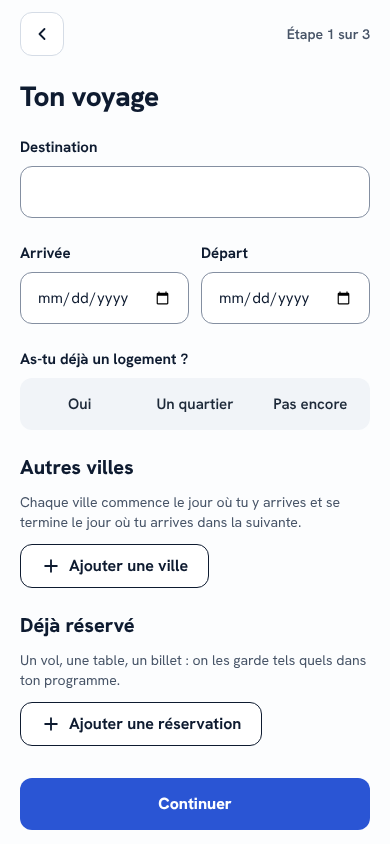
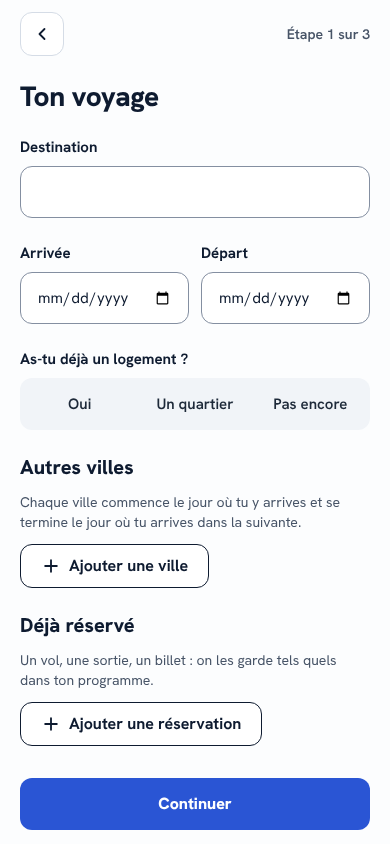
[ux] Formulaire guidé : corrections de revue (ticket 813)
Captures écran 2 vérification et écran 3, page entière de l'écran 1 ;
idées exclusives « qui part », indisponibles au plafond avec message,
retrait sans retoucher le récit ; titre des idées au style des sections ;
« Sortie » à la place de « Table ou activité » ; parcours e2e de l'étape
et des idées ; renvoi 0018 vers 0134, libellés de la spécification F8.
Captures de référence sans rapport restaurées depuis main.

Claude-Session: https://claude.ai/code/session_017VkTFzuPjWFSYa4eNqysM3

Changed region(s): [[0.0615, 0.7701, 0.9231, 0.8318]]

diff --git a/src/features/creation/BriefStory.tsx b/src/features/creation/BriefStory.tsx
@@ -28,21 +28,50 @@ const COUNTER_ID = `${STORY_ID}-compteur`;
 const ANNOUNCED_LENGTHS = new Set([STORY_LENGTH.max * 0.9, STORY_LENGTH.max]);
 
 const IDEAS_ID = "recit-idees";
+const IDEAS_FULL_ID = `${IDEAS_ID}-plein`;
+const IDEAS: readonly Idea[] = r.idees.liste;
+
+/** Une idée du récit (`creation.ecran2.recit.idees.liste`) ; `groupe` : idées exclusives (« qui part »). */
+export interface Idea {
+  label: string;
+  phrase: string;
+  groupe?: string;
+}
 
 /** Le récit contient-il déjà la phrase de cette idée ? */
 export function hasIdea(story: string, phrase: string): boolean {
   return story.includes(phrase);
 }
 
+/** Retire la première occurrence de la phrase et l'espace qui la sépare du reste ; le reste du récit est intact. */
+export function removePhrase(story: string, phrase: string): string {
+  const at = story.indexOf(phrase);
+  if (at < 0) return story;
+  let start = at;
+  let end = at + phrase.length;
+  if (story[start - 1] === " ") start -= 1;
+  else if (story[end] === " ") end += 1;
+  return story.slice(0, start) + story.slice(end);
+}
+
+/** Ajoute la phrase à la fin du récit, après une espace si le récit ne finit pas déjà par un blanc. */
+function appendPhrase(story: string, phrase: string): string {
+  if (story.trim() === "") return phrase;
+  return /\s$/.test(story) ? `${story}${phrase}` : `${story} ${phrase}`;
+}
+
 /**
- * Ajoute la phrase d'une idée à la fin du récit (une espace avant si besoin), ou la retire si elle y est déjà. Rien
- * n'est ajouté si le récit dépasserait le plafond de caractères.
+ * Touche d'une idée (décision 0134 § 3) : retire sa phrase si elle est dans le récit ; sinon l'ajoute à la fin, après
+ * avoir retiré celles des autres idées du même groupe (on part à deux, en famille ou entre amis, pas les trois). Rien
+ * ne change si le récit dépasserait le plafond de caractères.
  */
-export function toggleIdea(story: string, phrase: string): string {
-  if (hasIdea(story, phrase)) {
-    return story.replace(phrase, "").replace(/ {2,}/g, " ").trim();
-  }
-  const joined = story.trim() === "" ? phrase : `${story.trimEnd()} ${phrase}`;
+export function toggleIdea(story: string, idea: Idea, ideas: readonly Idea[] = []): string {
+  if (hasIdea(story, idea.phrase)) return removePhrase(story, idea.phrase);
+  const others = idea.groupe ? ideas.filter((other) => other !== idea && other.groupe === idea.groupe) : [];
+  const joined = appendPhrase(
+    others.reduce((current, other) => removePhrase(current, other.phrase), story),
+    idea.phrase,
+  );
   return joined.length > STORY_LENGTH.max ? story : joined;
 }
 
@@ -87,6 +116,7 @@ export function BriefStory({ focusTitle, onStageChange, essai = false }: BriefSt
   );
 
   const length = state.story.length;
+  const ideasFull = IDEAS.some((idea) => !hasIdea(state.story, idea.phrase) && toggleIdea(state.story, idea, IDEAS) === state.story);
 
   async function prepare() {
     if (pending) return;
@@ -166,24 +196,35 @@ export function BriefStory({ focusTitle, onStageChange, essai = false }: BriefSt
           {ANNOUNCED_LENGTHS.has(length) ? counterText(length) : null}
         </p>
       </div>
-      {/* Idées (décision 0134) : chaque chip ajoute sa phrase au récit, ou la retire ; état « choisi » = phrase présente. */}
+      {/* Idées (décision 0134 § 3) : chaque chip ajoute sa phrase au récit, ou la retire ; état « choisi » = phrase présente.
+          Une idée qui ne tiendrait plus dans le récit est indisponible et décrite par le message « plein ». */}
       <div role="group" aria-labelledby={IDEAS_ID} aria-describedby={helpId(IDEAS_ID)} className="flex flex-col gap-2">
-        <h2 id={IDEAS_ID} className="text-corps font-semibold text-ink">
+        <h2 id={IDEAS_ID} className="text-section font-extrabold text-ink">
           {r.idees.titre}
         </h2>
         <p id={helpId(IDEAS_ID)} className="text-corps-s text-ink-soft">
           {r.idees.aide}
         </p>
         <div className="flex flex-wrap gap-2">
-          {r.idees.liste.map((idea) => (
-            <Chip
-              key={idea.label}
-              label={idea.label}
-              selected={hasIdea(state.story, idea.phrase)}
-              onSelectedChange={() => dispatch({ type: "story", story: toggleIdea(state.story, idea.phrase) })}
-            />
-          ))}
+          {IDEAS.map((idea) => {
+            const selected = hasIdea(state.story, idea.phrase);
+            const next = toggleIdea(state.story, idea, IDEAS);
+            const unavailable = !selected && next === state.story;
+            return (
+              <Chip
+                key={idea.label}
+                label={idea.label}
+                selected={selected}
+                aria-disabled={unavailable || undefined}
+                aria-describedby={unavailable ? IDEAS_FULL_ID : undefined}
+                onSelectedChange={() => dispatch({ type: "story", story: next })}
+              />
+            );
+          })}
         </div>
+        <p id={IDEAS_FULL_ID} className={ideasFull ? "text-corps-s text-ink-soft" : "hidden"}>
+          {r.idees.plein}
+        </p>
       </div>
       <div role="alert" className={failed ? undefined : EMPTY_LIVE_REGION_CLASS}>
         {failed ? (

diff --git a/src/features/creation/BriefStory.test.ts b/src/features/creation/BriefStory.test.ts
@@ -2,23 +2,46 @@ import { describe, expect, it } from "vitest";
 
 import { STORY_LENGTH } from "@/contracts/values";
 
-import { hasIdea, toggleIdea } from "./BriefStory";
+import { hasIdea, removePhrase, toggleIdea, type Idea } from "./BriefStory";
 
-/** Idées du récit (décision 0134) : ajout en fin de récit, retrait, plafond de caractères. */
+/** Idées du récit (décision 0134 § 3) : ajout en fin de récit, retrait sans toucher au reste, groupe exclusif, plafond. */
+const DEUX: Idea = { label: "À deux", phrase: "On part à deux.", groupe: "qui" };
+const FAMILLE: Idea = { label: "En famille", phrase: "On part en famille, avec des enfants.", groupe: "qui" };
+const TABLES: Idea = { label: "Bonnes tables", phrase: "On aime bien manger, surtout la cuisine locale." };
+const IDEES = [DEUX, FAMILLE, TABLES];
+
 describe("toggleIdea", () => {
-  it("ajoute la phrase seule dans un récit vide, après une espace sinon", () => {
-    expect(toggleIdea("", "On part à deux.")).toBe("On part à deux.");
-    expect(toggleIdea("  ", "On part à deux.")).toBe("On part à deux.");
-    expect(toggleIdea("On aime marcher.\n", "On part à deux.")).toBe("On aime marcher. On part à deux.");
+  it("ajoute la phrase seule dans un récit vide, après une espace sinon, sans espace en trop après un blanc final", () => {
+    expect(toggleIdea("", DEUX)).toBe("On part à deux.");
+    expect(toggleIdea("  ", DEUX)).toBe("On part à deux.");
+    expect(toggleIdea("On aime marcher.", DEUX)).toBe("On aime marcher. On part à deux.");
+    expect(toggleIdea("On aime marcher.\n", DEUX)).toBe("On aime marcher.\nOn part à deux.");
   });
 
-  it("retire la phrase déjà présente, sans laisser d'espace double", () => {
-    expect(toggleIdea("On aime marcher. On part à deux. Pas de musées.", "On part à deux.")).toBe("On aime marcher. Pas de musées.");
-    expect(hasIdea("On aime marcher.", "On part à deux.")).toBe(false);
+  it("retire la phrase et l'espace qui la sépare, sans toucher au reste du récit", () => {
+    expect(toggleIdea("On aime marcher. On part à deux. Pas de musées.", DEUX)).toBe("On aime marcher. Pas de musées.");
+    expect(toggleIdea("On part à deux. Pas de musées.", DEUX)).toBe("Pas de musées.");
+    // Récit sur plusieurs lignes, doubles espaces saisis : gardés tels quels.
+    const recit = "Premier jour  calme.\nOn part à deux.\nPuis la mer.";
+    expect(toggleIdea(recit, DEUX)).toBe("Premier jour  calme.\n\nPuis la mer.");
+  });
+
+  it("phrase présente deux fois : une touche en retire une, l'idée reste choisie", () => {
+    const recit = "On part à deux. Oui, on part à deux.";
+    const apres = toggleIdea(recit, DEUX);
+    expect(apres).toBe("Oui, on part à deux.");
+    expect(removePhrase("On part à deux. On part à deux.", DEUX.phrase)).toBe("On part à deux.");
+    expect(hasIdea(removePhrase("On part à deux. On part à deux.", DEUX.phrase), DEUX.phrase)).toBe(true);
+  });
+
+  it("idées d'un même groupe exclusives : « En famille » remplace « À deux », les autres idées restent", () => {
+    const recit = "On part à deux. On aime bien manger, surtout la cuisine locale.";
+    expect(toggleIdea(recit, FAMILLE, IDEES)).toBe("On aime bien manger, surtout la cuisine locale. On part en famille, avec des enfants.");
+    expect(toggleIdea(recit, TABLES, IDEES)).toBe("On part à deux.");
   });
 
   it("n'ajoute rien si le récit dépasserait le plafond", () => {
     const plein = "a".repeat(STORY_LENGTH.max - 5);
-    expect(toggleIdea(plein, "On part à deux.")).toBe(plein);
+    expect(toggleIdea(plein, DEUX)).toBe(plein);
   });
 });

diff --git a/tests/e2e/creation.e2e.spec.ts b/tests/e2e/creation.e2e.spec.ts
@@ -199,6 +199,31 @@ test("brief: récit, erreur et compteur", async ({ page }) => {
   await expect(live).toHaveText(`${MILLE} sur ${MILLE} caractères`);
 });
 
+test("creation: étape visible et idées du récit (décision 0134)", async ({ page }) => {
+  await page.goto(R1);
+  const etape = page.locator('[data-part="etape"]');
+  await expect(etape).toHaveText("Étape 1 sur 3");
+  await fillTrip(page, { ...EDIMBOURG, lodging: "Oui" });
+  await expect(etape).toHaveText("Étape 1 sur 2");
+  await lodgingGroup(page).getByRole("radio", { name: "Pas encore" }).click();
+  await expect(etape).toHaveText("Étape 1 sur 3");
+  await continueButton(page).click();
+  await expectPath(page, R2);
+  await expect(etape).toHaveText("Étape 2 sur 3");
+
+  const story = storyField(page);
+  const idees = page.getByRole("group", { name: "Idées à ajouter" });
+  const deux = idees.getByRole("button", { name: "À deux" });
+  await deux.click();
+  await expect(story).toHaveValue("On part à deux.");
+  await expect(deux).toHaveAttribute("aria-pressed", "true");
+  await idees.getByRole("button", { name: "Bonnes tables" }).click();
+  await expect(story).toHaveValue("On part à deux. On aime bien manger, surtout la cuisine locale.");
+  await deux.click();
+  await expect(story).toHaveValue("On aime bien manger, surtout la cuisine locale.");
+  await expect(deux).toHaveAttribute("aria-pressed", "false");
+});
+
 test("brief: déductions visibles", async ({ page }) => {
   await reachBrief(page);
   await reachReview(page);

diff --git a/src/features/creation/BriefScreen.test.tsx b/src/features/creation/BriefScreen.test.tsx
@@ -135,6 +135,23 @@ describe("BriefScreen : récit", () => {
     expect(await axeViolations(container)).toEqual([]);
   });
 
+  it("idées « qui part » exclusives ; près du plafond, les idées qui ne tiennent plus sont indisponibles et décrites", () => {
+    renderScreen();
+    const idees = screen.getByRole("group", { name: "Idées à ajouter" });
+    fireEvent.click(within(idees).getByRole("button", { name: "À deux" }));
+    fireEvent.click(within(idees).getByRole("button", { name: "Entre amis" }));
+    expect(story()).toHaveValue("On part entre amis.");
+    expect(within(idees).getByRole("button", { name: "À deux" })).toHaveAttribute("aria-pressed", "false");
+    const plein = "a".repeat(990);
+    fireEvent.change(story(), { target: { value: plein } });
+    const deux = within(idees).getByRole("button", { name: "À deux" });
+    expect(deux).toHaveAttribute("aria-disabled", "true");
+    expect(deux).toHaveAccessibleDescription("Ton récit est trop long pour ajouter une autre idée.");
+    expect(screen.getByText("Ton récit est trop long pour ajouter une autre idée.")).toBeVisible();
+    fireEvent.click(deux);
+    expect(story()).toHaveValue(plein);
+  });
+
   it("compteur : annoncé poliment à 900 et 1 000 caractères seulement", () => {
     const { container } = renderScreen();
     const live = container.querySelector('[aria-live="polite"]')!;

diff --git a/docs/decisions/0134-formulaire-guide.md b/docs/decisions/0134-formulaire-guide.md
@@ -10,13 +10,17 @@ Audit UX du 2026-10-28 demandé par Samuel (fil « Rendre l'app séduisante pour
    - Le nombre varie (raison du refus de 0018) : `total` vaut 3 si une ville n'a pas encore de réponse au logement ou a répondu « Pas encore », 2 sinon (`stepTotal`). L'écran 1 le recalcule à chaque réponse ; l'écran 3, répété pour chaque ville « Pas encore », reste « Étape 3 sur 3 ».
    - Connexion, code d'accès du site d'essai, lancement et écran 5 n'en ont pas : ce ne sont pas des étapes du formulaire.
 2. **Exemple de récit.** La zone de texte de l'écran 2 porte un texte indicatif (`placeholder`, `ink-soft`) qui commence par « Par exemple : ». Le nom et l'aide du champ ne changent pas.
-3. **Idées à ajouter.** Sous le compteur, un groupe « Idées à ajouter » (titre de niveau 2, aide) de huit `Chip`. Toucher une idée ajoute sa phrase à la fin du récit ; la toucher encore la retire. Une idée est « choisie » (`aria-pressed`) tant que sa phrase est dans le récit. Rien n'est ajouté si le récit dépasserait 1 000 caractères. Le récit reste le seul texte envoyé ; les idées ne contiennent aucune donnée personnelle.
+3. **Idées à ajouter.** Sous le compteur, un groupe « Idées à ajouter » (titre de niveau 2 au style des autres titres de section de la création, `section` 800, puis une aide) de huit `Chip`.
+   - Toucher une idée ajoute sa phrase à la fin du récit ; la toucher encore retire cette phrase et l'espace qui la sépare, sans toucher au reste du texte (sauts de ligne et espaces saisis gardés). Une idée est « choisie » (`aria-pressed`) tant que sa phrase est dans le récit.
+   - « À deux », « En famille » et « Entre amis » sont exclusives : en choisir une retire la phrase des deux autres, pour que le récit ne se contredise pas.
+   - Une idée dont la phrase ne tiendrait plus dans les 1 000 caractères est indisponible (`aria-disabled`, rendu « indisponible » de `Chip`) et décrite par « Ton récit est trop long pour ajouter une autre idée. », affiché sous les idées.
+   - Le récit reste le seul texte envoyé ; les idées ne contiennent aucune donnée personnelle.
 4. **Mots simples.** « brief » disparaît de l'interface de création :
    - « Préparer mon brief » → « Continuer avec mon récit » ; site d'essai : « Vérifier mon brief » → « Vérifier mes envies » ;
    - « Vérifie ton brief » → « Vérifie tes envies » ; titre du document « Nouveau voyage · Tes envies » ;
    - attente « On lit ton récit… », erreurs et aides alignées (« remplis tes envies toi-même ») ;
    - messages de reprise du site d'essai : « puis réessaie ».
-5. **« Déjà réservé ».** La section « Engagements déjà pris » devient « Déjà réservé » (mot imposé, handover § 10, « Réservations ») ; « Ajouter une réservation », « Réservation {n} », « Type de réservation » (Vol, Table ou activité, Billet : « Réservation » n'est plus une option, pour ne pas répéter le titre), aide « Un vol, une table, un billet : on les garde tels quels dans ton programme. »
+5. **« Déjà réservé ».** La section « Engagements déjà pris » devient « Déjà réservé » (mot imposé, handover § 10, « Réservations ») ; « Ajouter une réservation », « Réservation {n} », « Type de réservation » (Vol, Sortie, Billet : « Réservation » n'est plus une option, pour ne pas répéter le titre ; « Sortie » tient sur une ligne à 390 px), aide « Un vol, une sortie, un billet : on les garde tels quels dans ton programme. »
 
 ## Hors décision
 - 2 adultes par défaut au lieu d'un : réservé au Product Owner (valeur de départ du brief). Question dans la PR.
@@ -25,3 +29,4 @@ Audit UX du 2026-10-28 demandé par Samuel (fil « Rendre l'app séduisante pour
 ## Conséquences
 - Références visuelles de la création régénérées (décision 0004).
 - Captures 390 × 844 dans `docs/ux/captures/813/`.
+- 0018 § 14 porte un renvoi vers cette décision ; `specs/F8-creation-compte.md` reprend les nouveaux libellés.

diff --git a/specs/813-formulaire-guide.md b/specs/813-formulaire-guide.md
@@ -4,7 +4,7 @@ Ticket : #813 · Rôle : UX/UI · Origine : demande de Samuel du 2026-10-28 (fil
 
 ## Comportement
 1. Écrans 1, 2 et 3 : « Étape {n} sur {total} » à droite de « Retour » ; `total` = 3 si une ville peut encore passer par « Où loger », 2 sinon.
-2. Écran 2, récit : exemple en texte indicatif ; groupe « Idées à ajouter » de huit chips qui ajoutent ou retirent une phrase du récit, sans dépasser 1 000 caractères.
+2. Écran 2, récit : exemple en texte indicatif ; groupe « Idées à ajouter » de huit chips qui ajoutent ou retirent une phrase du récit ; « À deux », « En famille », « Entre amis » exclusives ; au plafond de 1 000 caractères, les idées qui ne tiennent plus sont indisponibles et un message le dit.
 3. Plus de « brief » dans les textes de la création ; « Engagements déjà pris » devient « Déjà réservé ».
 
 ## Écarts avec la maquette
@@ -14,7 +14,7 @@ Référence : `docs/ux/captures/F8a/` (`docs/ux/maquettes/` est vide).
 - Textes changés (décision 0134 § 4 et § 5).
 
 ## Captures (390 × 844)
-`docs/ux/captures/813/` : `ecran1-etape`, `ecran2-recit-vide`, `ecran2-recit-idees`, `ecran1-deja-reserve`.
+`docs/ux/captures/813/` : `ecran1-etape`, `ecran1-deja-reserve` (page entière), `ecran2-recit-vide`, `ecran2-recit-idees`, `ecran2-verification`, `ecran3-etape`.
 
 ## Question
 - Product Owner : passer à 2 adultes par défaut (la plupart des voyages se font à deux) ?

diff --git a/docs/decisions/0018-rendus-ux-ui-f5a-f7-f8-d1.md b/docs/decisions/0018-rendus-ux-ui-f5a-f7-f8-d1.md
@@ -335,7 +335,7 @@ Préconisation d'affectation :
 - **Mise en page :** fond `page`, une colonne, marges `space-5`, largeur bornée comme l'accueil.
 - **« Retour » :** `IconButton` carré en haut à gauche (règles communes), absent de l'écran 5 tant que « Mes voyages » n'existe pas.
 - **Titre de niveau 1 :** `titre-jour` 800 (approche `--ligne-titre-jour-approche`).
-- **Pas d'indicateur « étape {n} sur {total} » :** le nombre d'écrans varie.
+- **Pas d'indicateur « étape {n} sur {total} » :** le nombre d'écrans varie. *Remplacé par la décision 0134 § 1 (2026-10-28) : « Étape {n} sur {total} » sur les écrans 1 à 3.*
 - **Titres du document :** ceux de la spécification, retenus.
 - **Brouillon perdu.** « Ton brouillon n'a pas été conservé. Recommence à partir de la destination. »
   - Visible en tête de l'écran 1 : bloc `muted`, coins `radius-block`, marge `space-4`, `corps-s` `ink-2`.
